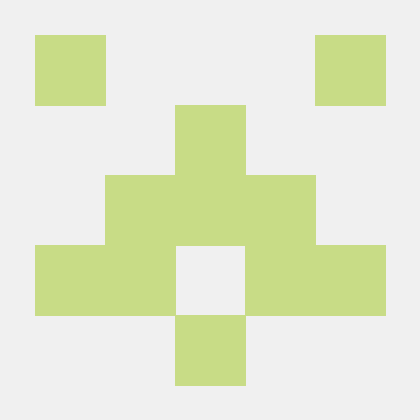
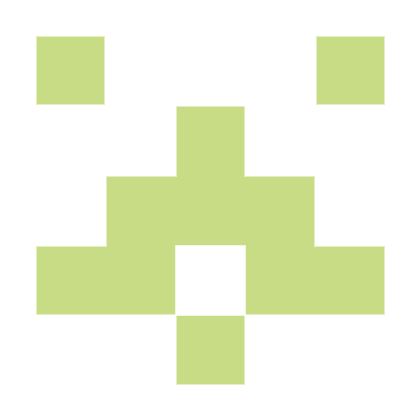
enabled transparency

diff --git a/src/Image.java b/src/Image.java
@@ -28,9 +28,8 @@ public class Image {
 	}
 
 	public Image(String filename) {
-		BufferedImage bi;
 		try {
-			bi = ImageIO.read(new File(filename));
+			BufferedImage bi = ImageIO.read(new File(filename));
 			actualWidth = bi.getWidth();
 			actualHeight = bi.getHeight();
 
@@ -43,16 +42,17 @@ public class Image {
 					pixels.put((byte)((pixel >> 16) & 0xFF));   //RED
 					pixels.put((byte)((pixel >>  8) & 0xFF));   //GREEN
 					pixels.put((byte)((pixel      ) & 0xFF));   //BLUE
-					//pixels.put((byte)((pixel >> 24) & 0xFF));   //ALPHA
-					pixels.put((byte)0);   //ALPHA
+					pixels.put((byte)((pixel >> 24) & 0xFF));   //ALPHA
 				}
 			}
 			pixels.flip();
 
 			id = glGenTextures();
-			glBindTexture(GL_TEXTURE_2D, id);
-			glTexParameterf(GL_TEXTURE_2D, GL_TEXTURE_MIN_FILTER, GL_LINEAR);
-			glTexParameterf(GL_TEXTURE_2D, GL_TEXTURE_MAG_FILTER, GL_LINEAR);
+			bind();
+			//glTexParameterf(GL_TEXTURE_2D, GL_TEXTURE_MIN_FILTER, GL_LINEAR);
+			//glTexParameterf(GL_TEXTURE_2D, GL_TEXTURE_MAG_FILTER, GL_LINEAR);
+			glTexParameterf(GL_TEXTURE_2D, GL_TEXTURE_MIN_FILTER, GL_NEAREST);
+			glTexParameterf(GL_TEXTURE_2D, GL_TEXTURE_MAG_FILTER, GL_NEAREST);
 			glTexImage2D(GL_TEXTURE_2D, 0, GL_RGBA, actualWidth, actualHeight, 0, GL_RGBA, GL_UNSIGNED_BYTE, pixels);
 		} catch (IOException e) {
 			e.printStackTrace();

diff --git a/src/Display.java b/src/Display.java
@@ -13,7 +13,7 @@ import static org.lwjgl.system.MemoryStack.*;
 import static org.lwjgl.system.MemoryUtil.*;
 
 public class Display {
-	Pandemic Game;
+	TTL Game;
 
 	private int windowWidth = 640;
 	private int windowHeight = 640;
@@ -30,7 +30,7 @@ public class Display {
 	private boolean rightMouse;
 	private DoubleBuffer xpos, ypos;
 
-	public Display(Pandemic game) {
+	public Display(TTL game) {
 		Game = game;
 		init();
 		images = new HashMap<>();
@@ -65,7 +65,7 @@ public class Display {
 		glfwWindowHint(GLFW_RESIZABLE, GLFW_FALSE); // the window will be resizable
 
 		// Create the window
-		window = glfwCreateWindow(windowWidth, windowHeight, "Pandemic", NULL, NULL);
+		window = glfwCreateWindow(windowWidth, windowHeight, "Technial TeL3Metry", NULL, NULL);
 		glfwSetWindowAspectRatio(window, 16, 9);
 		if (window == NULL)
 			throw new RuntimeException("Failed to create the GLFW window");
@@ -113,6 +113,10 @@ public class Display {
 		// Set the clear color
 		glClearColor(0.0f, 0.0f, 0.0f, 0.0f);
 		glEnable(GL_TEXTURE_2D);
+
+		// Enable transparency
+		glEnable(GL_BLEND);
+		glBlendFunc(GL_SRC_ALPHA, GL_ONE_MINUS_SRC_ALPHA);
 
 		// Run the rendering loop until the user has attempted to close
 		// the window or has pressed the ESCAPE key.

diff --git a/src/Driver.java b/src/Driver.java
@@ -1,11 +1,9 @@
-import java.io.File;
 import java.io.FileNotFoundException;
-import java.util.Scanner;
 
 public class Driver {
 
     public static void main(String[] args) throws FileNotFoundException{
-        Pandemic.instance = new Pandemic(4, 4);
+        TTL.instance = new TTL(4, 4);
     }
 
 }
